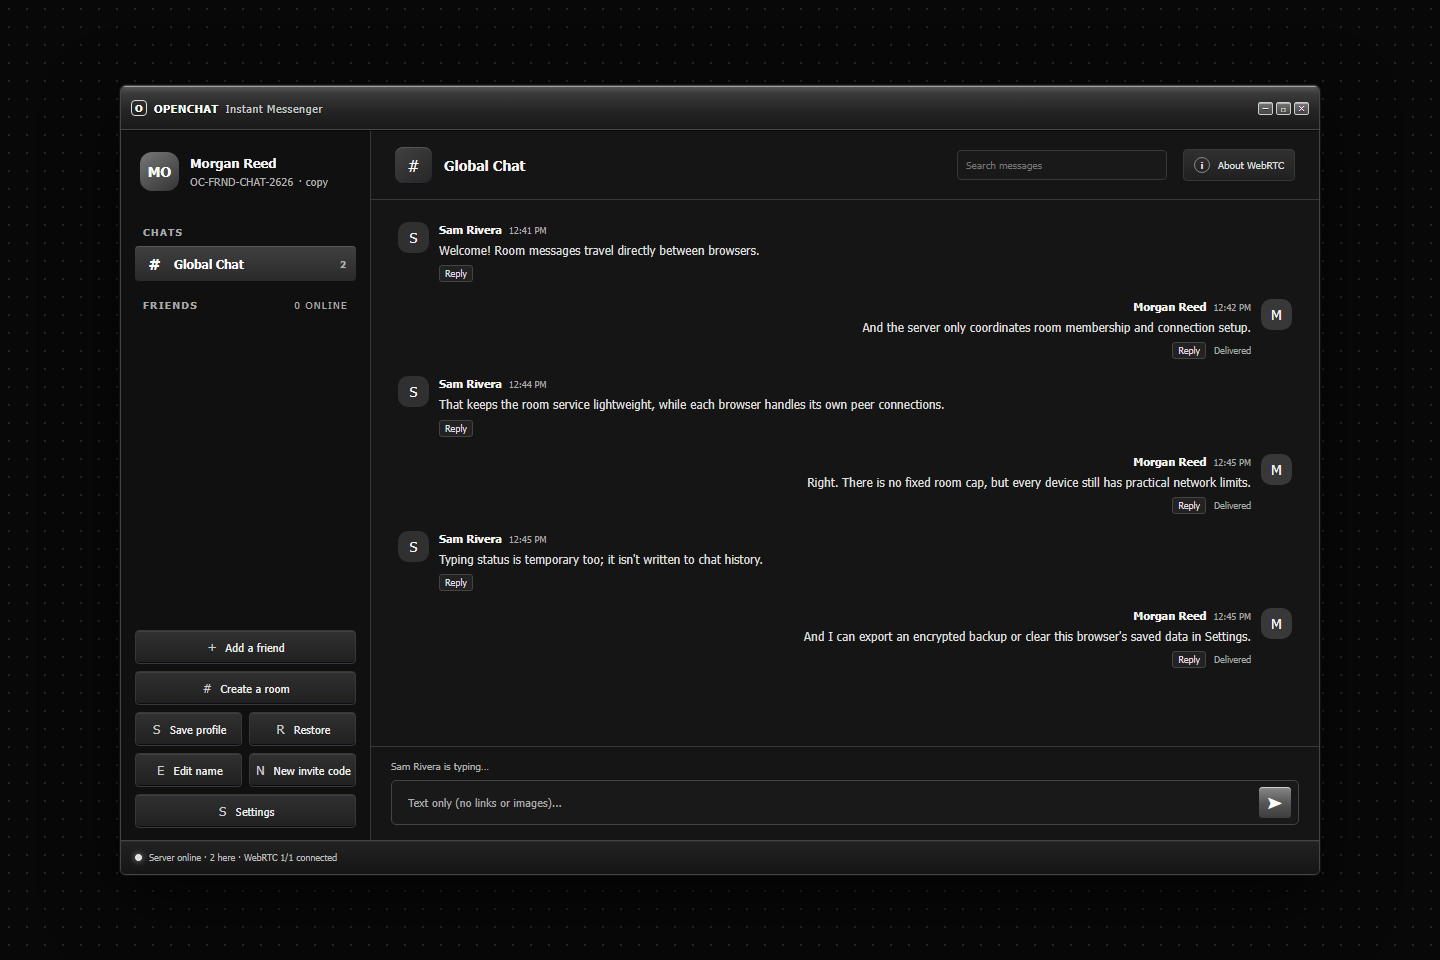
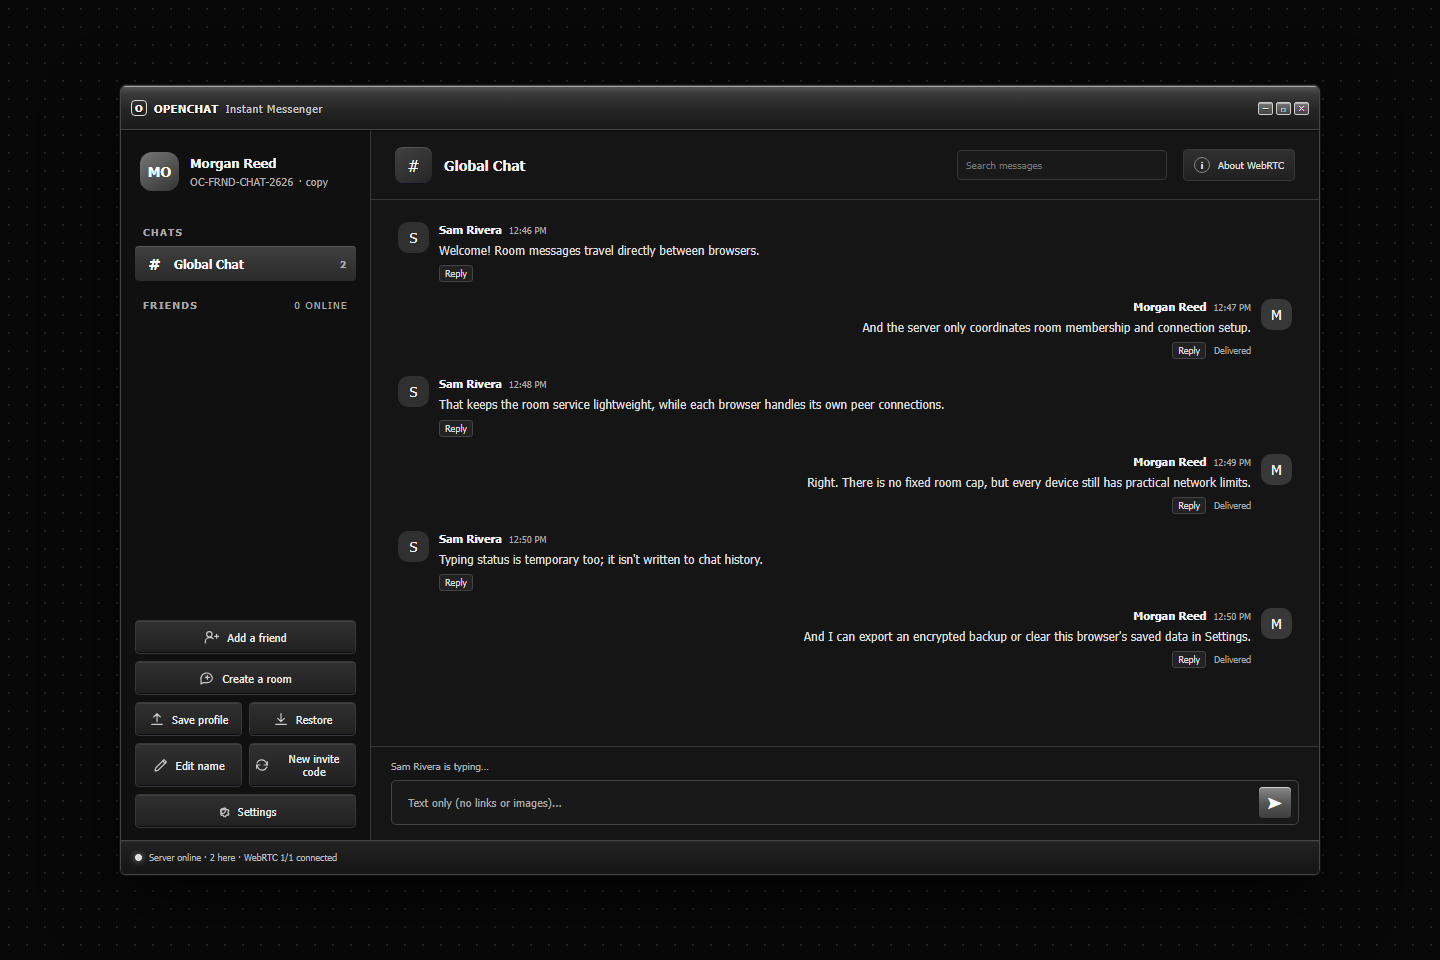
Polish compact mobile sidebar actions
Use SVG icons, keep the mobile rail as a non-overflowing single column, and regenerate screenshots.

Changed region(s): [[0.0938, 0.625, 0.25, 0.8125], [0.1562, 0.8438, 0.1875, 0.875]]

diff --git a/index.html b/index.html
@@ -196,7 +196,8 @@
       font-size: 11px;
       cursor: pointer;
     }
-    .sidebar-icon { min-width: 12px; color: #ccc; font-size: 13px; text-align: center; }
+    .sidebar-icon { display: grid; width: 16px; min-width: 16px; height: 16px; place-items: center; color: #ccc; }
+    .sidebar-icon svg { display: block; width: 16px; height: 16px; fill: none; stroke: currentColor; stroke-width: 1.75; stroke-linecap: round; stroke-linejoin: round; }
     .sidebar-action:hover { border-color: #999; color: #fff; background: linear-gradient(180deg, #454545, #303030); }
 
     .chat-panel { display: grid; grid-template-rows: 69px minmax(0, 1fr) auto; min-width: 0; min-height: 0; }
@@ -343,7 +344,7 @@
       .nav-button, .contact-button { width: 43px; height: 41px; justify-content: center; padding: 0; }
       .contact-avatar { width: 31px; height: 31px; }
       .sidebar-actions { width: 100%; justify-items: center; }
-      .profile-actions { width: 100%; justify-items: center; }
+      .profile-actions { width: 100%; grid-template-columns: 1fr; justify-items: center; }
       .profile-actions .sidebar-action { width: 43px; }
       .sidebar-action { width: 43px; height: 37px; padding: 0; font-size: 14px; }
       .chat-header { padding: 0 12px; }
@@ -432,15 +433,15 @@
         <div class="section-label" id="requestsHeading" hidden>Friend requests</div>
         <div class="request-list" id="requestList"></div>
         <div class="sidebar-actions">
-          <button class="sidebar-action" id="connectPeerButton" type="button" aria-label="Add a friend" title="Add a friend"><span class="sidebar-icon" aria-hidden="true">+</span><span>Add a friend</span></button>
-          <button class="sidebar-action" id="createRoomButton" type="button" aria-label="Create a room" title="Create a room"><span class="sidebar-icon" aria-hidden="true">#</span><span>Create a room</span></button>
+          <button class="sidebar-action" id="connectPeerButton" type="button" aria-label="Add a friend" title="Add a friend"><span class="sidebar-icon" aria-hidden="true"><svg viewBox="0 0 24 24"><circle cx="8" cy="8" r="4"></circle><path d="M2 21v-2a6 6 0 0 1 6-6h2a6 6 0 0 1 4 1.5"></path><path d="M19 8v6m-3-3h6"></path></svg></span><span>Add a friend</span></button>
+          <button class="sidebar-action" id="createRoomButton" type="button" aria-label="Create a room" title="Create a room"><span class="sidebar-icon" aria-hidden="true"><svg viewBox="0 0 24 24"><path d="M20 11.5a7.5 7.5 0 0 1-7.5 7.5H6l-3 2v-6a7.5 7.5 0 1 1 17-3.5Z"></path><path d="M12.5 8v6m-3-3h6"></path></svg></span><span>Create a room</span></button>
           <div class="profile-actions">
-            <button class="sidebar-action" id="saveProfileButton" type="button" aria-label="Save encrypted profile" title="Save encrypted profile"><span class="sidebar-icon" aria-hidden="true">S</span><span>Save profile</span></button>
-            <button class="sidebar-action" id="restoreProfileButton" type="button" aria-label="Restore profile" title="Restore profile"><span class="sidebar-icon" aria-hidden="true">R</span><span>Restore</span></button>
-            <button class="sidebar-action" id="editNameButton" type="button" aria-label="Edit profile name" title="Edit profile name"><span class="sidebar-icon" aria-hidden="true">E</span><span>Edit name</span></button>
-            <button class="sidebar-action" id="regenerateCodeButton" type="button" aria-label="Generate new invite code" title="Generate new invite code"><span class="sidebar-icon" aria-hidden="true">N</span><span>New invite code</span></button>
+            <button class="sidebar-action" id="saveProfileButton" type="button" aria-label="Save encrypted profile" title="Save encrypted profile"><span class="sidebar-icon" aria-hidden="true"><svg viewBox="0 0 24 24"><path d="M4 20h16"></path><path d="M12 16V4m-5 5 5-5 5 5"></path></svg></span><span>Save profile</span></button>
+            <button class="sidebar-action" id="restoreProfileButton" type="button" aria-label="Restore profile" title="Restore profile"><span class="sidebar-icon" aria-hidden="true"><svg viewBox="0 0 24 24"><path d="M4 20h16"></path><path d="M12 4v12m-5-5 5 5 5-5"></path></svg></span><span>Restore</span></button>
+            <button class="sidebar-action" id="editNameButton" type="button" aria-label="Edit profile name" title="Edit profile name"><span class="sidebar-icon" aria-hidden="true"><svg viewBox="0 0 24 24"><path d="m4 16.5-.8 4.3 4.3-.8L20 7.5 16.5 4 4 16.5Z"></path><path d="m14.5 6 3.5 3.5"></path></svg></span><span>Edit name</span></button>
+            <button class="sidebar-action" id="regenerateCodeButton" type="button" aria-label="Generate new invite code" title="Generate new invite code"><span class="sidebar-icon" aria-hidden="true"><svg viewBox="0 0 24 24"><path d="M20 7v5h-5"></path><path d="M4.7 9a7.5 7.5 0 0 1 12.7-2L20 12"></path><path d="M4 17v-5h5"></path><path d="M19.3 15a7.5 7.5 0 0 1-12.7 2L4 12"></path></svg></span><span>New invite code</span></button>
           </div>
-          <button class="sidebar-action" id="settingsButton" type="button" aria-label="Settings" title="Settings" aria-haspopup="dialog" aria-controls="settingsBackdrop"><span class="sidebar-icon" aria-hidden="true">S</span><span>Settings</span></button>
+          <button class="sidebar-action" id="settingsButton" type="button" aria-label="Settings" title="Settings" aria-haspopup="dialog" aria-controls="settingsBackdrop"><span class="sidebar-icon" aria-hidden="true"><svg viewBox="0 0 24 24"><path d="M12 8.5a3.5 3.5 0 1 0 0 7 3.5 3.5 0 0 0 0-7Z"></path><path d="m19.4 15 .1.1 1.4 1.1-1.4 2.4-1.7-.7a8 8 0 0 1-1.5.9l-.3 1.8h-2.8l-.3-1.8a8 8 0 0 1-1.5-.9l-1.7.7-1.4-2.4 1.4-1.1a7 7 0 0 1 0-1.8l-1.4-1.1 1.4-2.4 1.7.7a8 8 0 0 1 1.5-.9l.3-1.8h2.8l.3 1.8a8 8 0 0 1 1.5.9l1.7-.7 1.4 2.4-1.4 1.1a7 7 0 0 1 0 1.8Z"></path></svg></span><span>Settings</span></button>
           <input id="profileFileInput" type="file" accept=".openchat,application/json" hidden>
           <input id="avatarFileInput" type="file" accept="image/*" hidden>
         </div>

diff --git a/tests/browser.test.js b/tests/browser.test.js
@@ -79,6 +79,28 @@ test("two browsers deliver, reply to, search, and retain room messages", { timeo
     ]);
 
     await first.setViewportSize({ width: 390, height: 844 });
+    for (const [id, label] of [
+      ["connectPeerButton", "Add a friend"],
+      ["createRoomButton", "Create a room"],
+      ["saveProfileButton", "Save encrypted profile"],
+      ["restoreProfileButton", "Restore profile"],
+      ["editNameButton", "Edit profile name"],
+      ["regenerateCodeButton", "Generate new invite code"],
+      ["settingsButton", "Settings"]
+    ]) {
+      const action = first.locator(`#${id}`);
+      assert.equal(await action.getAttribute("aria-label"), label);
+      assert.equal(await action.locator(".sidebar-icon svg").count(), 1);
+    }
+    const sidebarActionOverflow = await first.evaluate(() => {
+      const sidebar = document.querySelector(".sidebar").getBoundingClientRect();
+      const chatPanel = document.querySelector(".chat-panel").getBoundingClientRect();
+      return [...document.querySelectorAll(".sidebar-action")].some((button) => {
+        const bounds = button.getBoundingClientRect();
+        return bounds.left < sidebar.left || bounds.right > chatPanel.left;
+      });
+    });
+    assert.equal(sidebarActionOverflow, false);
     try {
       await Promise.all([
         first.locator("#connectionLabel").getByText(/WebRTC 1\/1 connected/).waitFor({ timeout: 30000 }),
